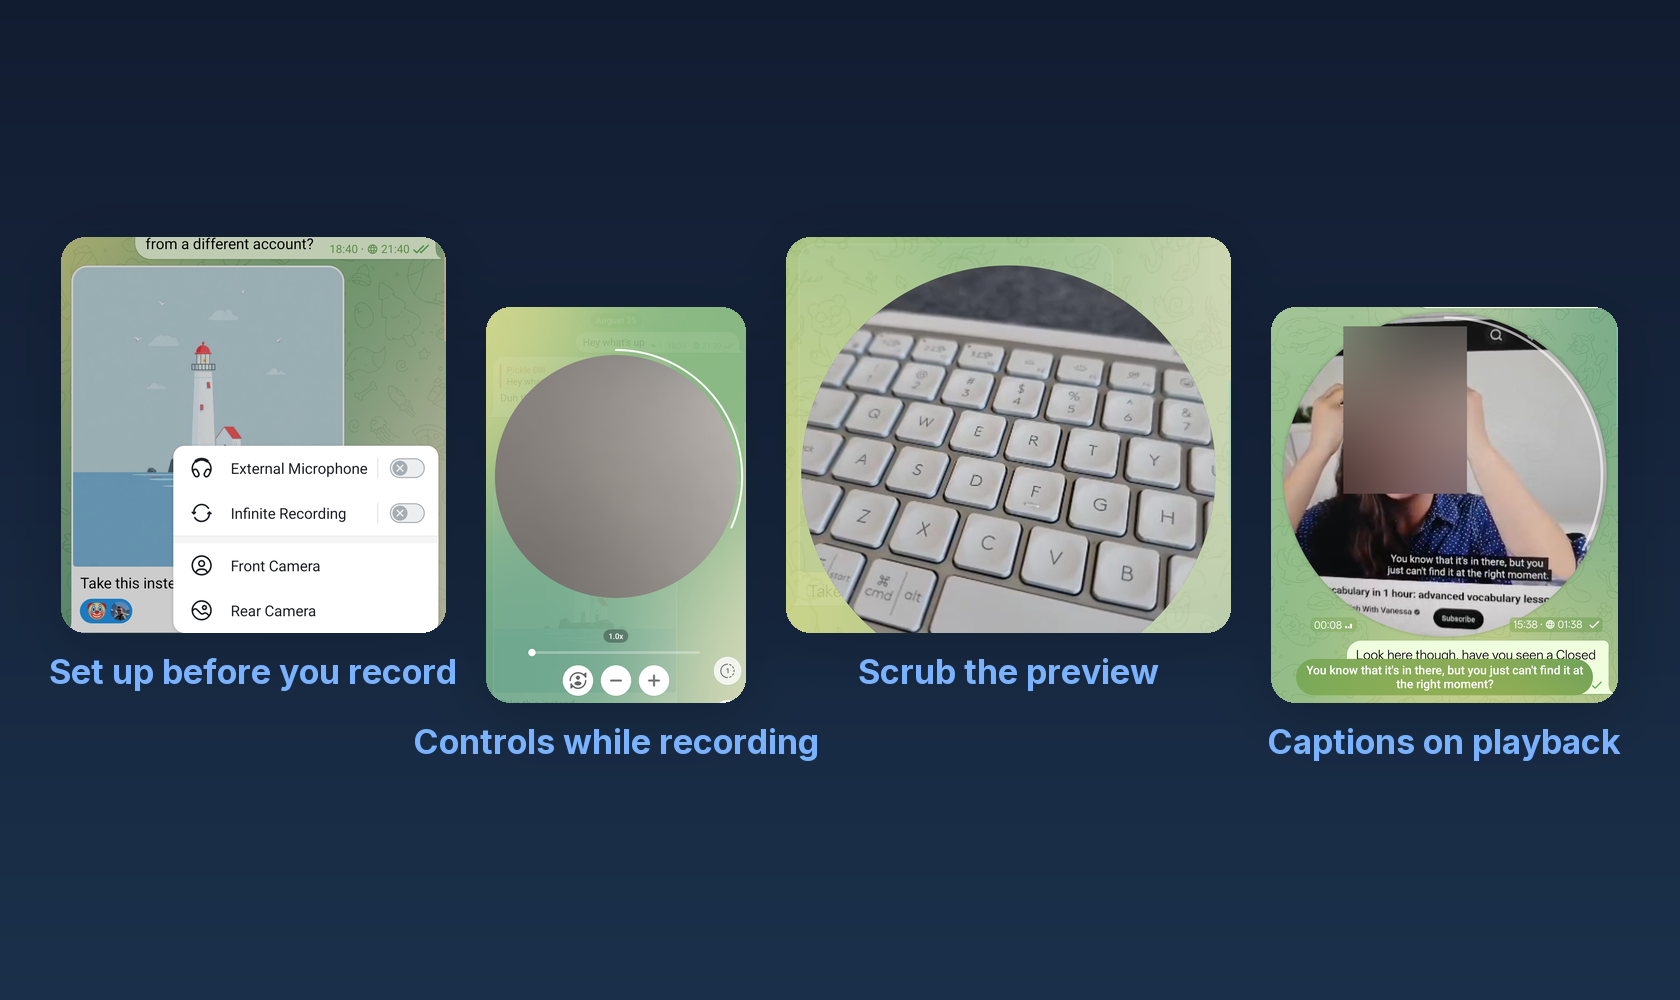
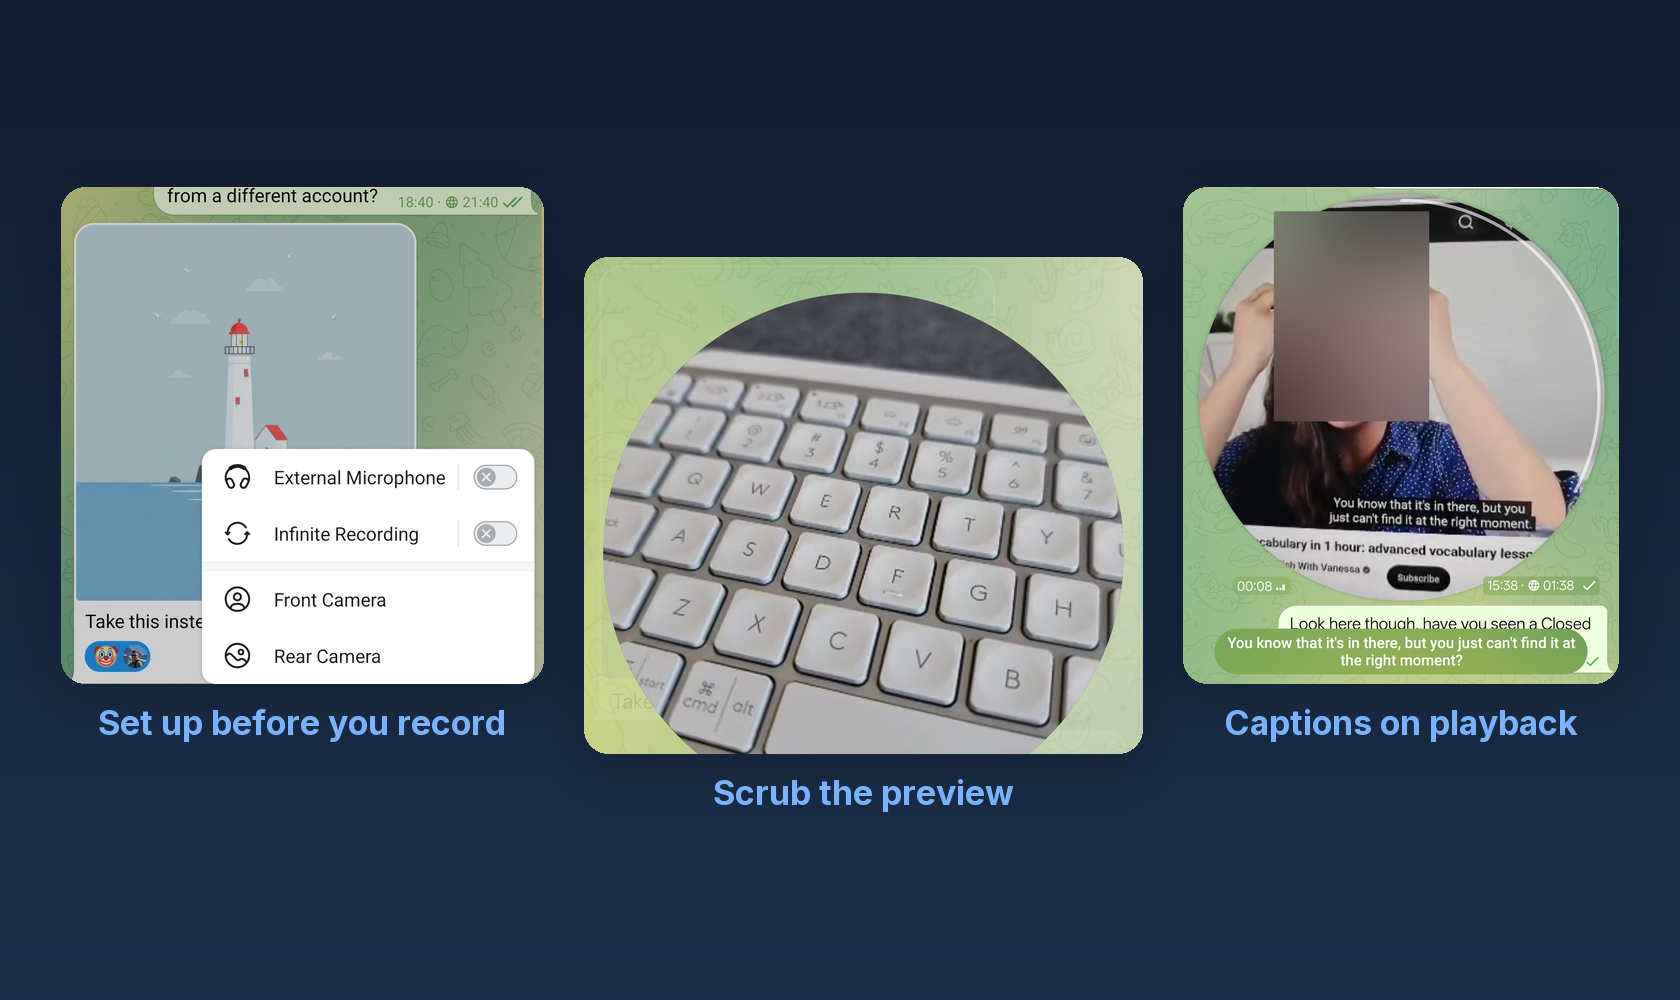
drop video-messages panel 2 for legibility, bump README pin #docs
Panel 2 (a featureless grey circle with a zoom slider) was the least
informative panel in the wall and was squeezing the captions panel
below the point where its subtitle text was reliably readable at
GitHub's ~900px README render width. Drop it to 3 panels; the
remaining panels each gain about a third more width, which is what
resolves panel 4's (now panel 3's) legibility. Update its alt text
to describe three panels instead of four.

README.md changed again this round, so bump its blob-sha pin in
.github/sync/protected-paths.tsv to match.

diff --git a/README.md b/README.md
@@ -35,7 +35,7 @@ This README covers the highlights. The full list, with what each one does, is in
 **Video messages:** Record round video messages past Telegram's limit, with a warning buzz before it cuts and captions, once you've set up transcription.
 
 <p align="center">
-<img width="100%" src="docs/images/video-messages.png" alt="Four views of Dazegram's video messages: the pre-record options popup with External Microphone and Infinite Recording toggles, the in-recording controls with the zoom slider and camera flip, the recording preview with the scrub timeline, and captions burned into video playback.">
+<img width="100%" src="docs/images/video-messages.png" alt="Three views of Dazegram's video messages: the pre-record options popup with External Microphone and Infinite Recording toggles, the recording preview with the scrub timeline, and captions burned into video playback.">
 </p>
 
 **Everyday reliability:** The scheduled-message composer and message editing keep what you typed if you back out by accident, lock the app, or minimize it. Normal composing already autosaves, so nothing changes there.
